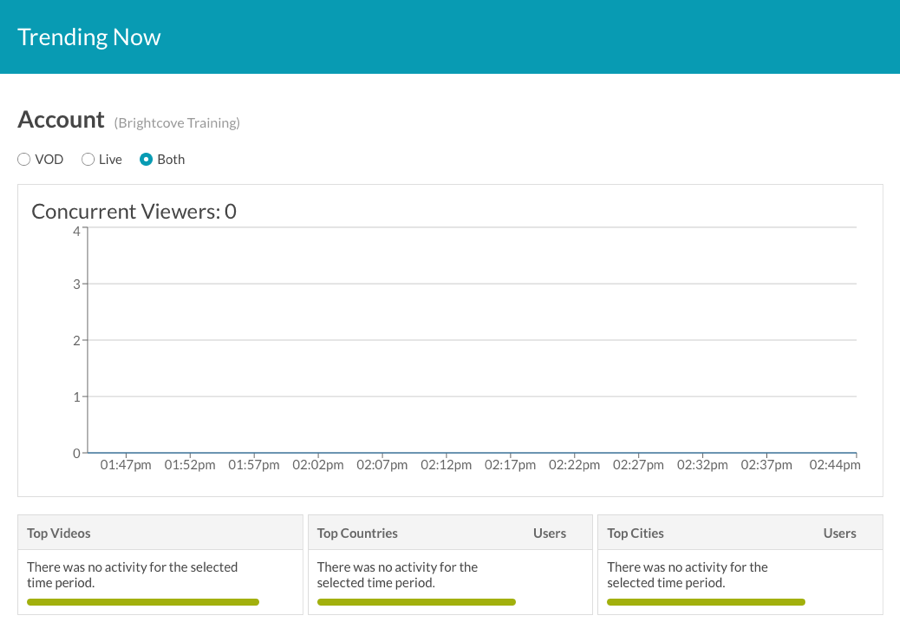
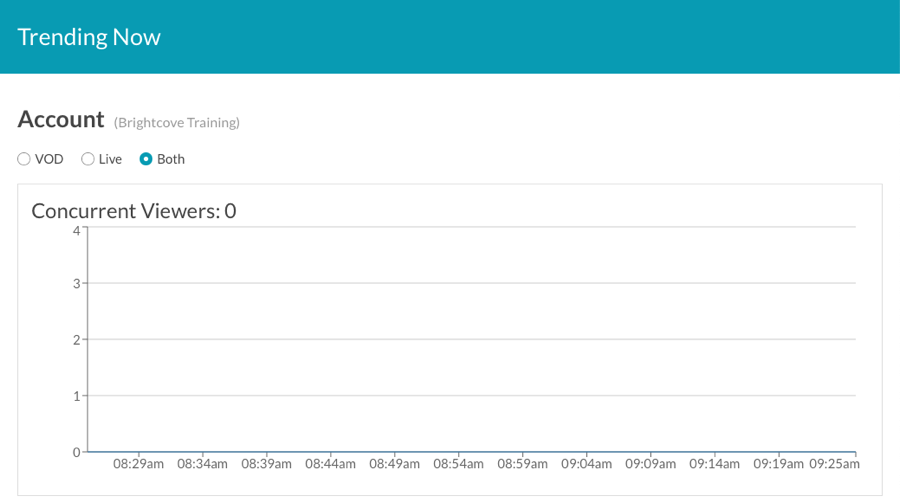
updates to trending now report.

diff --git a/_site/analytics/trending-now-report-reference.html b/_site/analytics/trending-now-report-reference.html
@@ -834,13 +834,17 @@ function doGTranslate(lang_pair) {if(lang_pair.value)lang_pair=lang_pair.value;i
   <h1>Trending Now Report Reference</h1>
   <summary>In this topic you will learn about the Trending Now report that is provided as part of the Analytics module.</summary>
   <section class="bcls-section">
-         <aside class="bcls-aside bcls-aside--information">Note: This feature is only enabled for previous Ooyala customers who have migrated to a Video Cloud account.</aside>
- 
+    <aside class="bcls-aside bcls-aside--information">Note: This feature is only enabled for previous Ooyala customers who have migrated to a Video Cloud account.</aside>
     <p>Analytics data is sent automatically by  Brightcove Players, including those provided by the Native Player SDKs. If you are <strong>not</strong> using a Brightcove Player to deliver Video Cloud videos, you need to instrument the player you are using to send the data to the Data Collector. See the <a href="https://apis.support.brightcove.com/data-collection/overview-data-collection-api-v2.html">Overview: Data Collection API</a> topic for more details.</p>
-    <p>To view the Trending Now report, open the Analytics module and select <span class="BCL_command"><strong>Trending Now</strong></span> from the left side navigation. The report will display a graph showing total number of concurrent viewers.</p>
-          <figure class="bcls-figure"><img class="bcls-image--no-border" alt="report switcher" src="/assets/images/analytics/trending-now-report.png" /></figure>
+    <p>To view the Trending Now report, open the Analytics module and select <span class="BCL_command"><strong>Trending Now</strong></span> from the left side navigation. The report will display a graph showing the number of concurrent viewers for the past hour. The graph will update every 30 seconds.</p>
+    <figure class="bcls-figure"><img class="bcls-image--no-border" alt="report switcher" src="/assets/images/analytics/trending-now-report.png" /></figure>
+    <aside class="bcls-aside bcls-aside--information">Note:  A unique user is determined by browser user agent combined with IP address. Multiple tabs of the same player running in the same browser will only be 1 user.</aside>
     <p>If your account is enabled for Brightcove Live, you will have the option to view the number of concurrent viewers for  all videos, VOD assets or live assets.</p>
-    <figure class="bcls-figure"><img class="bcls-image--no-border" alt="report switcher" src="/assets/images/analytics/trending-now-select-all-vod-live.png" /></figure>
+    <p>
+      <figure class="bcls-figure"><img class="bcls-image--no-border" alt="report switcher" src="/assets/images/analytics/trending-now-select-all-vod-live.png" /></figure>
+    </p>
+    <p>Sections below the graph will display the <strong>Top Videos</strong>, <strong>Top Countries</strong> and <strong>Top Cities</strong> for the last minute and will update every 10 seconds.</p>
+    <figure class="bcls-figure"><img class="bcls-image--no-border" alt="report switcher" src="/assets/images/analytics/trending-now-top-sections.png" /></figure>
   </section>
   <section class="bcls-section">
     <h2 id="details" class="BCL_conceptTitle">Performance Report Details</h2>
@@ -850,8 +854,7 @@ function doGTranslate(lang_pair) {if(lang_pair.value)lang_pair=lang_pair.value;i
       <li><strong>Video Impressions</strong> - The number of times the video was loaded into a player and ready for interaction</li>
       <li><strong>Play Rate</strong> - The percentage of users that played the video after it was loaded (Video Views divided by Video Impressions)</li>
       <li><strong>Viewed Minutes</strong> - Total number of minutes the video was viewed</li>
-      <li><strong>Engagement Score</strong> - The average percent watched per video view (calculated by adding all the percentage watched divided by the number of Video Views)
-      </li>
+      <li><strong>Engagement Score</strong> - The average percent watched per video view (calculated by adding all the percentage watched divided by the number of Video Views) </li>
     </ul>
   </section>
 </article>

diff --git a/analytics/trending-now-report-reference.html b/analytics/trending-now-report-reference.html
@@ -6,13 +6,17 @@ parent: Reviewing Analytics
   <h1>Trending Now Report Reference</h1>
   <summary>In this topic you will learn about the Trending Now report that is provided as part of the Analytics module.</summary>
   <section class="bcls-section">
-         <aside class="bcls-aside bcls-aside--information">Note: This feature is only enabled for previous Ooyala customers who have migrated to a Video Cloud account.</aside>
- 
+    <aside class="bcls-aside bcls-aside--information">Note: This feature is only enabled for previous Ooyala customers who have migrated to a Video Cloud account.</aside>
     <p>Analytics data is sent automatically by  Brightcove Players, including those provided by the Native Player SDKs. If you are <strong>not</strong> using a Brightcove Player to deliver Video Cloud videos, you need to instrument the player you are using to send the data to the Data Collector. See the <a href="https://apis.support.brightcove.com/data-collection/overview-data-collection-api-v2.html">Overview: Data Collection API</a> topic for more details.</p>
-    <p>To view the Trending Now report, open the Analytics module and select <span class="BCL_command"><strong>Trending Now</strong></span> from the left side navigation. The report will display a graph showing total number of concurrent viewers.</p>
-          <figure class="bcls-figure"><img class="bcls-image--no-border" alt="report switcher" src="/assets/images/analytics/trending-now-report.png" /></figure>
+    <p>To view the Trending Now report, open the Analytics module and select <span class="BCL_command"><strong>Trending Now</strong></span> from the left side navigation. The report will display a graph showing the number of concurrent viewers for the past hour. The graph will update every 30 seconds.</p>
+    <figure class="bcls-figure"><img class="bcls-image--no-border" alt="report switcher" src="/assets/images/analytics/trending-now-report.png" /></figure>
+    <aside class="bcls-aside bcls-aside--information">Note:  A unique user is determined by browser user agent combined with IP address. Multiple tabs of the same player running in the same browser will only be 1 user.</aside>
     <p>If your account is enabled for Brightcove Live, you will have the option to view the number of concurrent viewers for  all videos, VOD assets or live assets.</p>
-    <figure class="bcls-figure"><img class="bcls-image--no-border" alt="report switcher" src="/assets/images/analytics/trending-now-select-all-vod-live.png" /></figure>
+    <p>
+      <figure class="bcls-figure"><img class="bcls-image--no-border" alt="report switcher" src="/assets/images/analytics/trending-now-select-all-vod-live.png" /></figure>
+    </p>
+    <p>Sections below the graph will display the <strong>Top Videos</strong>, <strong>Top Countries</strong> and <strong>Top Cities</strong> for the last minute and will update every 10 seconds.</p>
+    <figure class="bcls-figure"><img class="bcls-image--no-border" alt="report switcher" src="/assets/images/analytics/trending-now-top-sections.png" /></figure>
   </section>
   <section class="bcls-section">
     <h2 id="details" class="BCL_conceptTitle">Performance Report Details</h2>
@@ -22,8 +26,7 @@ parent: Reviewing Analytics
       <li><strong>Video Impressions</strong> - The number of times the video was loaded into a player and ready for interaction</li>
       <li><strong>Play Rate</strong> - The percentage of users that played the video after it was loaded (Video Views divided by Video Impressions)</li>
       <li><strong>Viewed Minutes</strong> - Total number of minutes the video was viewed</li>
-      <li><strong>Engagement Score</strong> - The average percent watched per video view (calculated by adding all the percentage watched divided by the number of Video Views)
-      </li>
+      <li><strong>Engagement Score</strong> - The average percent watched per video view (calculated by adding all the percentage watched divided by the number of Video Views) </li>
     </ul>
   </section>
 </article>

diff --git a/_site/training/online-training-courses.html b/_site/training/online-training-courses.html
@@ -944,7 +944,7 @@ function doGTranslate(lang_pair) {if(lang_pair.value)lang_pair=lang_pair.value;i
 
 <hr>
 <div class="last-updated">
-  Page last updated on 07 May 2020
+  Page last updated on 26 May 2020
 </div>
 
 
